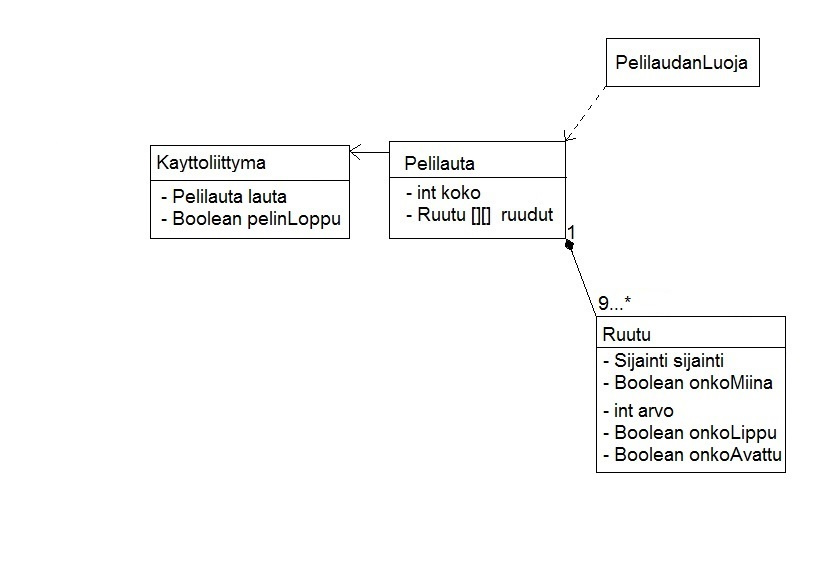
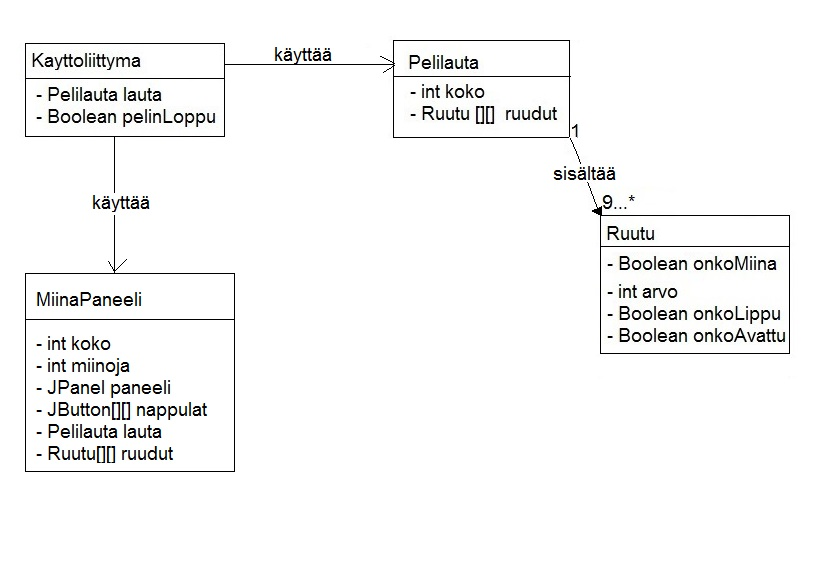
PelilaudanLuojan poistaminen, testien päivitys ja luokkakaavion korjaus

diff --git a/JonnanMiinaharava/src/main/java/fi/jonna/mehtonen/domain/Pelilauta.java b/JonnanMiinaharava/src/main/java/fi/jonna/mehtonen/domain/Pelilauta.java
@@ -5,8 +5,8 @@
  */
 package fi.jonna.mehtonen.domain;
 
-import fi.jonna.mehtonen.PelilaudanLuoja;
 import fi.jonna.mehtonen.domain.Ruutu;
+import java.util.Random;
 
 /**
  *
@@ -16,43 +16,75 @@ public class Pelilauta {
 
     private int koko;
     private Ruutu[][] ruudut;
+    private Random rnd;
 
     public Pelilauta(int laudanKoko) {
         this.koko = laudanKoko;
-        PelilaudanLuoja lauta = new PelilaudanLuoja(koko);
-        ruudut = lauta.getRuudut();
+        this.rnd = new Random();
+        ruudut = new Ruutu[koko][koko];
+        luoPelilauta();
     }
 
-    //Turha, tarkistin vain, että koodi toimii
-    public void tulostaPelilauta() {
+    public void luoPelilauta() {
+        luoRuudut();
+        asetaMiinat();
+        asetaRuuduilleArvot();
+    }
+
+    public void luoRuudut() {
         for (int k = 0; k < koko; k++) {
             for (int j = 0; j < koko; j++) {
-                if (ruudut[k][j].isOnkoMiina()) {
-                    System.out.print("*");
-                } else {
-                    System.out.print(ruudut[k][j].getArvo());
-                }
+                ruudut[k][j] = new Ruutu();
             }
-            System.out.println();
+        }
+    }
 
+    public void asetaMiinat() {
+        int i;
+        int j;
+        for (int k = 0; k < (koko * koko) / 5; k++) {
+            i = rnd.nextInt(koko);
+            j = rnd.nextInt(koko);
+
+            if (ruudut[i][j].isOnkoMiina()) {
+                k--;
+            } else {
+                ruudut[i][j].asetaMiina();
+            }
         }
     }
 
-    //Tämäkin ehkä turha..
-    public int miinojaYhteensa() {
-        int miinoja = 0;
+    public void asetaRuuduilleArvot() {
         for (int k = 0; k < koko; k++) {
             for (int j = 0; j < koko; j++) {
-                if (ruudut[k][j].isOnkoMiina()) {
-                    miinoja++;
+                if (!ruudut[k][j].isOnkoMiina()) {
+                    ruudut[k][j].setArvo(montaMiinaaNaapurissa(k, j));
                 }
             }
         }
-        return miinoja;
+
     }
 
-    public int getRuudutKoko() {
-        return ruudut.length;
+    public int montaMiinaaNaapurissa(int rivi, int sarake) {
+        int arvo = 0;
+        for (int i = -1; i <= 1; i++) {
+            for (int k = -1; k <= 1; k++) {
+                int uusiRivi = rivi - i;
+                int uusiSarake = sarake - k;
+                if (uusiRivi == rivi && uusiSarake == sarake) {
+                    continue;
+                } else if (uusiRivi >= 0 && uusiRivi < koko && uusiSarake >= 0 && uusiSarake < koko) {
+                    if (ruudut[uusiRivi][uusiSarake].isOnkoMiina()) {
+                        arvo++;
+                    }
+                }
+            }
+        }
+        return arvo;
+    }
+
+    public int getKoko() {
+        return koko;
     }
 
     public Ruutu[][] getRuudut() {

diff --git a/JonnanMiinaharava/src/main/java/fi/jonna/mehtonen/MiinaPaneeli.java b/JonnanMiinaharava/src/main/java/fi/jonna/mehtonen/MiinaPaneeli.java
@@ -18,8 +18,8 @@ public class MiinaPaneeli extends JFrame {
 
     private int koko;
     private int miinoja;
-    JPanel paneeli = new JPanel();
-    private JButton[][] ruudukko;
+    private JPanel paneeli = new JPanel();
+    private JButton[][] nappulat;
     private Pelilauta lauta;
     private Ruutu[][] ruudut;
 
@@ -34,14 +34,14 @@ public class MiinaPaneeli extends JFrame {
 
         //Luodaan pelipohja ja nappulat
         paneeli.setLayout(new GridLayout(koko, koko));
-        ruudukko = new JButton[koko][koko];
+        nappulat = new JButton[koko][koko];
 
         for (int k = 0; k < koko; k++) {
             for (int i = 0; i < koko; i++) {
                 JButton nappula = new JButton();
                 nappula.addMouseListener(new Mouse());
-                ruudukko[k][i] = nappula;
-                paneeli.add(ruudukko[k][i]);
+                nappulat[k][i] = nappula;
+                paneeli.add(nappulat[k][i]);
             }
         }
         add(paneeli);
@@ -100,8 +100,8 @@ public class MiinaPaneeli extends JFrame {
             if (nappula.isEnabled() && tapahtuma.getButton() == 1) {
                 for (int k = 0; k < koko; k++) {
                     for (int j = 0; j < koko; j++) {
-                        if (nappula == ruudukko[k][j]) {
-                            avataanRuutu(ruudukko[k][j], k, j);
+                        if (nappula == nappulat[k][j]) {
+                            avataanRuutu(nappulat[k][j], k, j);
                             break;
                         }
                     }
@@ -109,12 +109,12 @@ public class MiinaPaneeli extends JFrame {
             } else if (tapahtuma.getButton() == 3) {
                 for (int k = 0; k < koko; k++) {
                     for (int j = 0; j < koko; j++) {
-                        if (nappula == ruudukko[k][j]) {
+                        if (nappula == nappulat[k][j]) {
                             if (nappula.isEnabled()) {
-                                asetaLippu(ruudukko[k][j], k, j);
+                                asetaLippu(nappulat[k][j], k, j);
                                 break;
-                            } else if (!nappula.isEnabled()) {
-                                poistaLippu(ruudukko[k][j], k, j);
+                            } else if (!nappula.isEnabled() && ruudut[k][j].isOnkoLippu()) {
+                                poistaLippu(nappulat[k][j], k, j);
                                 break;
                             }
                         }

diff --git a/JonnanMiinaharava/src/test/java/fi/jonna/mehtonen/domain/PelilautaTest.java b/JonnanMiinaharava/src/test/java/fi/jonna/mehtonen/domain/PelilautaTest.java
@@ -5,7 +5,6 @@
  */
 package fi.jonna.mehtonen.domain;
 
-import fi.jonna.mehtonen.PelilaudanLuoja;
 import fi.jonna.mehtonen.domain.Pelilauta;
 import fi.jonna.mehtonen.domain.Ruutu;
 import org.junit.After;
@@ -43,42 +42,43 @@ public class PelilautaTest {
     @Test
     public void miinojaOikeaMaara() {
         Pelilauta lauta = new Pelilauta(10);
-        int vastaus = lauta.miinojaYhteensa();
-        assertEquals(20, vastaus);
+        Ruutu[][] ruudut = lauta.getRuudut();
+        int miinoja = 0;
+        for (int k = 0; k < 10; k++) {
+            for (int j = 0; j < 10; j++) {
+                if (ruudut[k][j].isOnkoMiina()) {
+                    miinoja++;
+                }
+            }
+        }
+        assertEquals(20, miinoja);
     }
 
     @Test
     public void eiMiinojaKunRuutujaVahemmanKuinViisi() {
         Pelilauta lauta = new Pelilauta(2);
-        int vastaus = lauta.miinojaYhteensa();
-        assertEquals(0, vastaus);
+        Ruutu[][] ruudut = lauta.getRuudut();
+        int miinoja = 0;
+        for (int k = 0; k < 2; k++) {
+            for (int j = 0; j < 2; j++) {
+                if (ruudut[k][j].isOnkoMiina()) {
+                    miinoja++;
+                }
+            }
+        }
+        assertEquals(0, miinoja);
     }
 
     @Test
     public void laudanKokoOikea() {
         Pelilauta lauta = new Pelilauta(20);
-        int vastaus = lauta.getRuudutKoko();
+        int vastaus = lauta.getKoko();
         assertEquals(20, vastaus);
     }
-
-    //@Test
-    //public void voittoKunMiinoissaLiput() {
-      //  PelilaudanLuoja lauta = new PelilaudanLuoja(10);
-        //Ruutu[][] ruudut = lauta.getRuudut();
-        //for (int k = 0; k < 10; k++) {
-          //  for (int j = 0; j < 10; j++) {
-            //    if (ruudut[k][j].isOnkoMiina()) {
-              //      ruudut[k][j].asetaLippu();
-                //}
-            //}
-        //}
-        //boolean vastaus = lauta.voitto();
-        //assertEquals(true, vastaus);
-    //}
-
+    
     @Test
     public void naapurissaMiinojaOikeaMaara() {
-        PelilaudanLuoja lauta = new PelilaudanLuoja(3);
+        Pelilauta lauta = new Pelilauta(3);
         int vastaus = lauta.montaMiinaaNaapurissa(1, 1);
         assertEquals(1, vastaus);
     }

diff --git a/JonnanMiinaharava/src/test/java/fi/jonna/mehtonen/domain/RuutuTest.java b/JonnanMiinaharava/src/test/java/fi/jonna/mehtonen/domain/RuutuTest.java
@@ -52,4 +52,51 @@ public class RuutuTest {
         boolean vastaus = ruutu.isOnkoMiina();
         assertEquals(false, vastaus);
     }
+    
+    @Test
+    public void alussaRuudullaEiLippua() {
+        Ruutu ruutu = new Ruutu();
+        boolean vastaus = ruutu.isOnkoLippu();
+        assertEquals(false, vastaus);
+    }
+    
+    @Test
+    public void alussaRuutuaEiAvattu() {
+        Ruutu ruutu = new Ruutu();
+        boolean vastaus = ruutu.isOnkoAvattu();
+        assertEquals(false, vastaus);
+    }
+    
+    @Test
+    public void poistaLippuToimii() {
+        Ruutu ruutu = new Ruutu();
+        ruutu.asetaLippu();
+        ruutu.poistaLippu();
+        boolean vastaus = ruutu.isOnkoLippu();
+        assertEquals(false, vastaus);
+    }
+    
+    @Test
+    public void asetaLippuToimii() {
+        Ruutu ruutu = new Ruutu();
+        ruutu.asetaLippu();
+        boolean vastaus = ruutu.isOnkoLippu();
+        assertEquals(true, vastaus);
+    }
+    
+    @Test
+    public void asetaArvoToimii() {
+        Ruutu ruutu = new Ruutu();
+        ruutu.setArvo(50);
+        int vastaus = ruutu.getArvo();
+        assertEquals(50, vastaus);
+    }
+    
+    @Test
+    public void merkkaaRuutuAvatuksiToimii() {
+        Ruutu ruutu = new Ruutu();
+        ruutu.merkkaaRuutuAvatuksi();
+        boolean vastaus = ruutu.isOnkoAvattu();
+        assertEquals(true, vastaus);
+    }
 }

diff --git a/JonnanMiinaharava/src/main/java/fi/jonna/mehtonen/Kayttoliittyma.java b/JonnanMiinaharava/src/main/java/fi/jonna/mehtonen/Kayttoliittyma.java
@@ -81,13 +81,6 @@ public class Kayttoliittyma {
     }
 
     public void pelaa(int koko) {
-        /**
-         * boolean totta = false; int laudanKoko = 0; System.out.println("Anna
-         * laudan koko YxY. Oltava vähintään Y=3:"); while (!totta) { laudanKoko
-         * = scan.nextInt(); if (laudanKoko < 3) { System.out.println("Laudan
-         * oltava isompi! Anna uusi koko: "); totta = false; } else { totta =
-         * true; } }*
-         */
         lauta = new Pelilauta(koko);
 
         MiinaPaneeli miinaharava = new MiinaPaneeli(koko, lauta);
